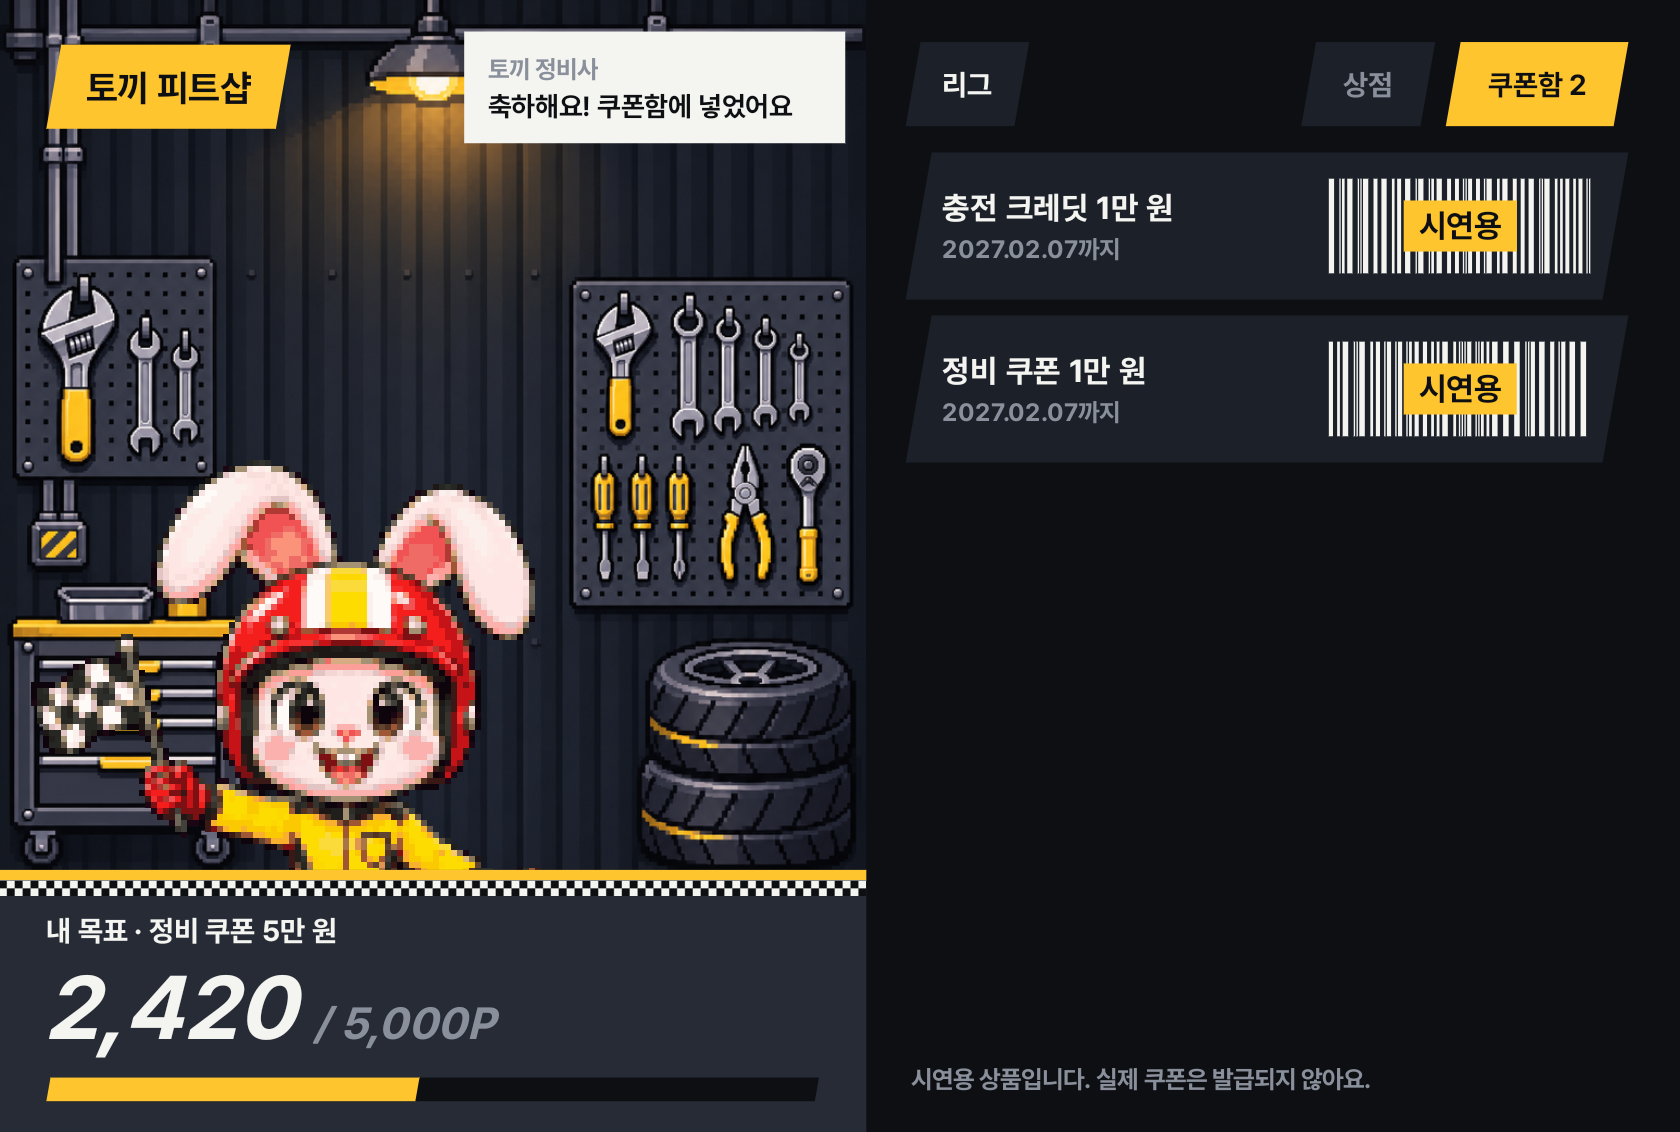
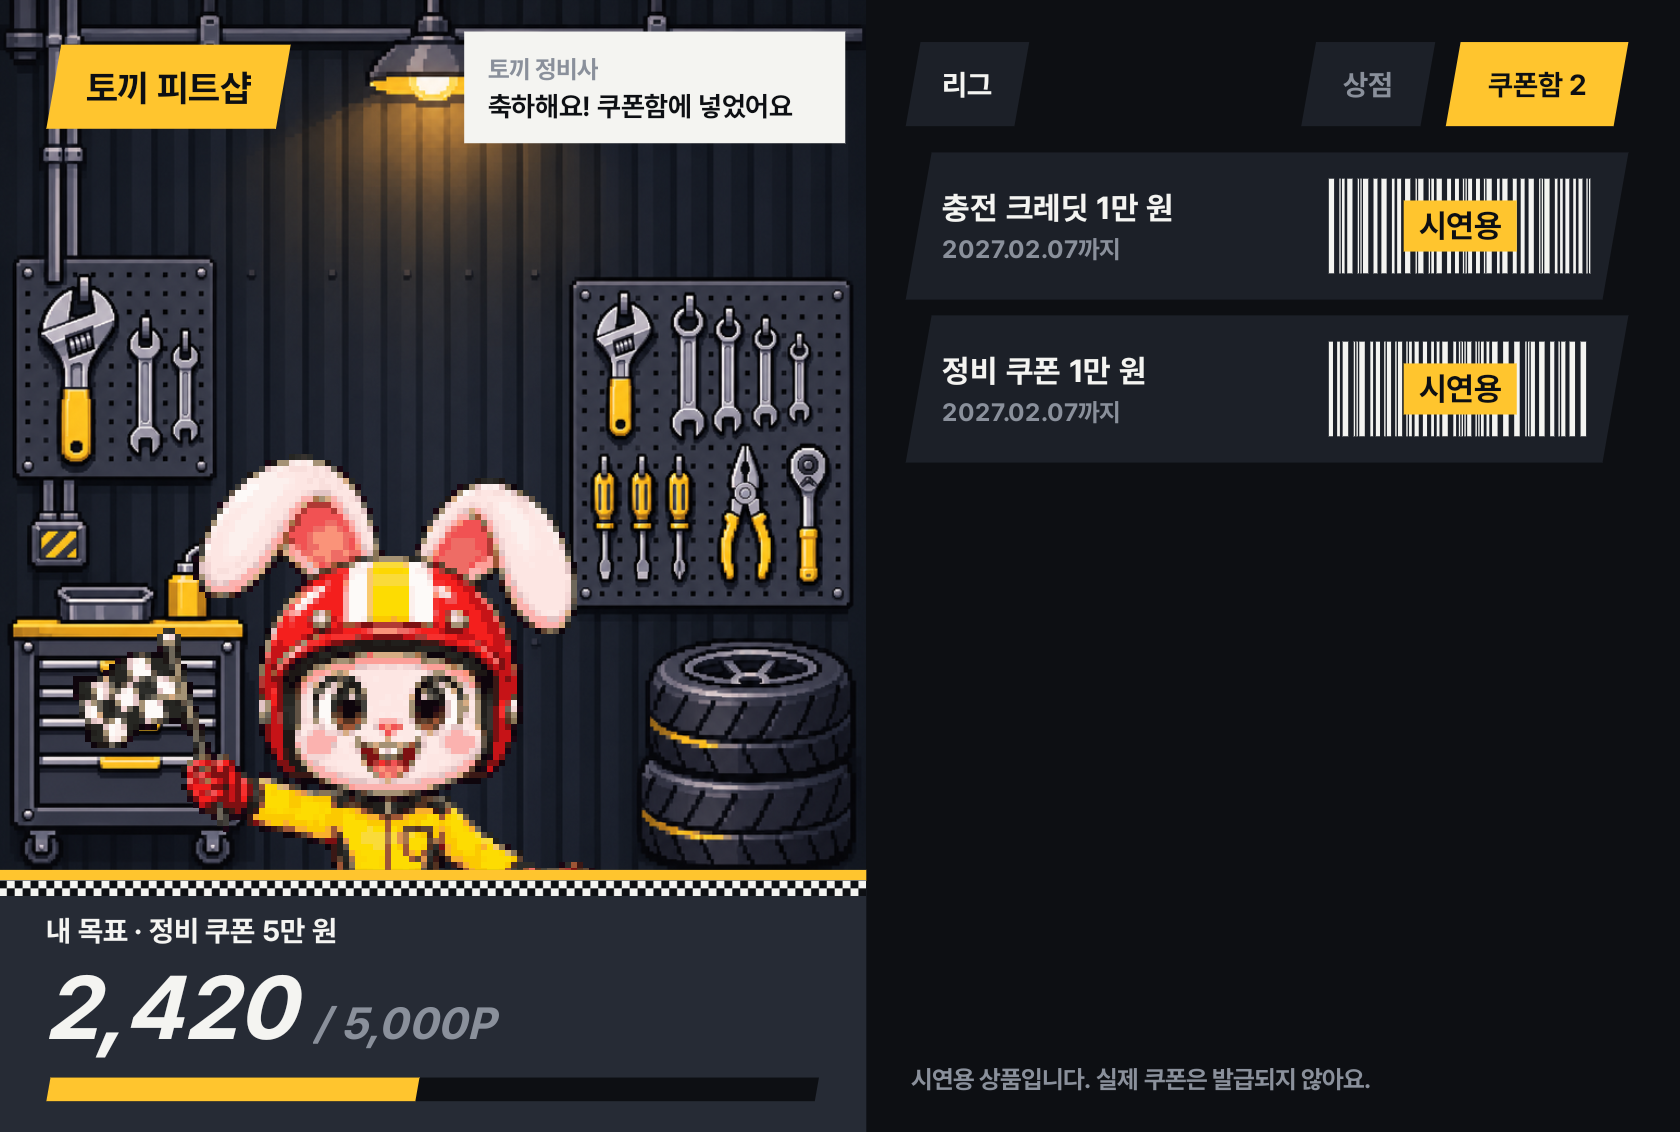
feat: 3km 미만 피트 보드와 쿠폰함 토끼 위치 조정

Changed region(s): [[0.0, 0.4019, 0.3405, 0.773]]

diff --git a/app/src/main/java/io/github/ddayoung03/safetyleague/ui/CouponBox.kt b/app/src/main/java/io/github/ddayoung03/safetyleague/ui/CouponBox.kt
@@ -41,6 +41,7 @@ internal fun MainActivity.openConfirm(b: ViewShopBinding, item: ShopItem, items:
         shopTab = ShopTab.COUPONS
         paintShop(b, items)
         b.rabbit.pose = Pose.WIN
+        b.rabbit.translationX = dp(32).toFloat() // 깃발을 든 자세는 그림이 왼쪽으로 쏠린다
         b.tvTalk.text = "축하해요! 쿠폰함에 넣었어요"
         if (requestSound()) sound.play(Fx.WIN)
     }

diff --git a/app/src/main/java/io/github/ddayoung03/safetyleague/ui/ResultLowScreen.kt b/app/src/main/java/io/github/ddayoung03/safetyleague/ui/ResultLowScreen.kt
@@ -42,6 +42,7 @@ internal fun MainActivity.showResultLow() {
         b.tvScore.textSize = 64f
         b.tvScore.setPadding(0, dp(150), 0, 0)
         b.tvScoreUnit.visibility = View.GONE
+        b.pitGroup.translationY = -dp(24).toFloat()
         b.tvStreakChange.text = "${streakBefore}일 그대로"
         b.rabbit.pose = Pose.WELCOME
         b.tvPitTip.text = SHORT_TRIP_TIP

diff --git a/app/src/main/java/io/github/ddayoung03/safetyleague/ui/ShopScreen.kt b/app/src/main/java/io/github/ddayoung03/safetyleague/ui/ShopScreen.kt
@@ -36,6 +36,7 @@ internal fun MainActivity.paintShop(b: ViewShopBinding, items: List<ShopItem>) {
     val w = wallet
     val target = w.target(items)
     b.rabbit.pose = Pose.WELCOME
+    b.rabbit.translationX = 0f
     b.tvTalk.text = ShopCatalog.talk(w.balance, target)
     b.tvBalance.text = ShopCatalog.points(w.balance)
     if (target != null) {
